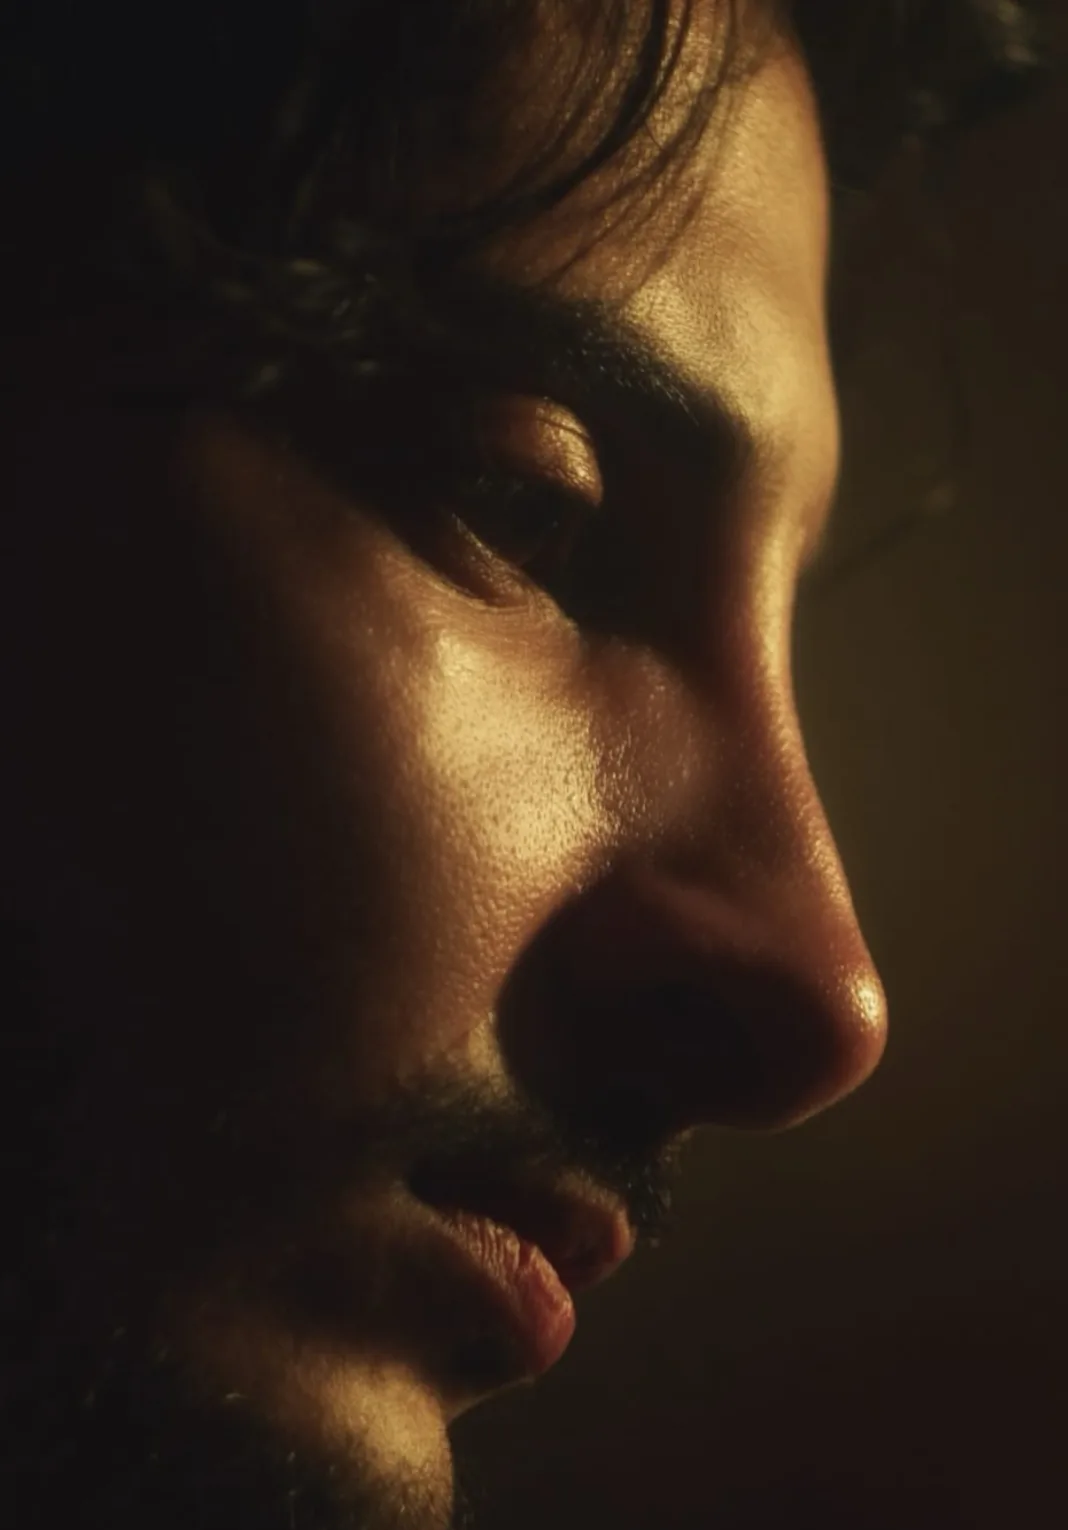
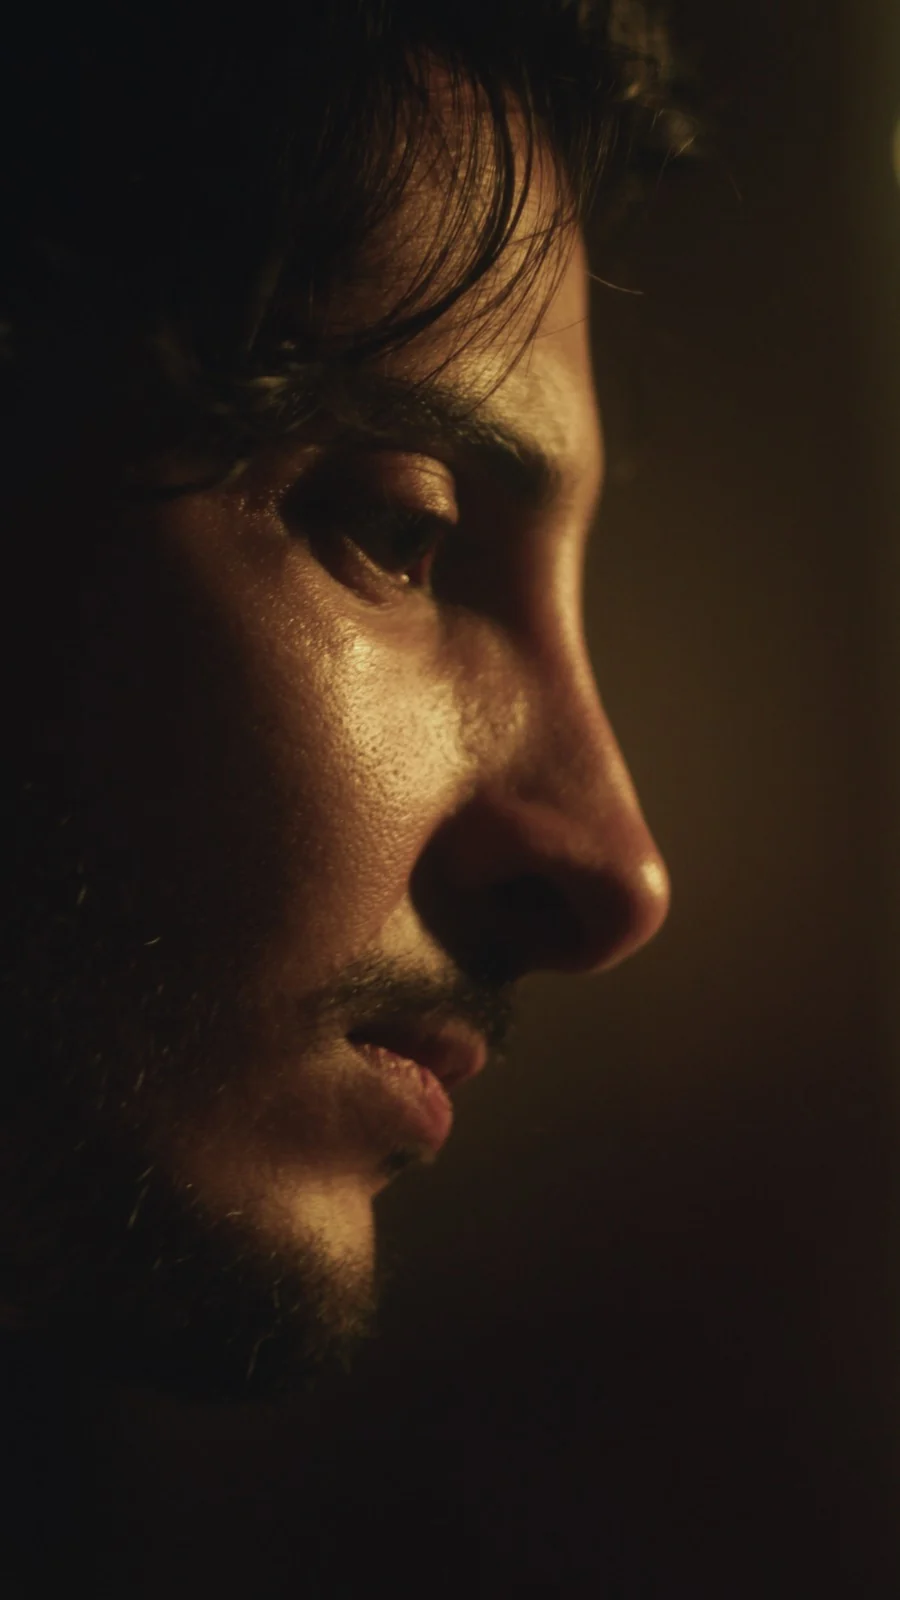
Portfolio : photos ADAM, court-métrage Matriochka, menu, Dynamite Agency

diff --git a/leonore_vanier/assets/js/data.js b/leonore_vanier/assets/js/data.js
@@ -52,8 +52,8 @@ window.SITE = {
     { id: "a-propos", label: "À propos", path: "a-propos/" },
     { id: "fiction", label: "Fiction", path: "fiction/" },
     { id: "audio", label: "Audio", path: "audio/" },
-    { id: "ia", label: "IA", path: "ia/" },
     { id: "spectacles-vivants", label: "Spectacles vivants", path: "spectacles-vivants/" },
+    { id: "ia", label: "IA", path: "ia/" },
     { id: "acting", label: "Acting", path: "acting/" },
     { id: "contacts", label: "Contacts", path: "contacts/" }
   ],
@@ -298,10 +298,10 @@ window.SITE = {
       gallery: [
         {
           src: "assets/img/adam/adam-2.webp",
-          w: 1011,
-          h: 1485,
-          alt: "Image d’ADAM : un homme en long manteau vert se tient dans une rue la nuit, image floue en mouvement.",
-          caption: "Photo : @bidounini"
+          w: 900,
+          h: 1600,
+          alt: "Image d’ADAM : visage de profil presque entièrement dans l’ombre, lumière rasante sur le nez et les lèvres.",
+          caption: "Photo : FeatureProd"
         },
         {
           src: "assets/img/adam/adam-3.webp",
@@ -312,18 +312,18 @@ window.SITE = {
         },
         {
           src: "assets/img/adam/adam-4.webp",
-          w: 972,
-          h: 1491,
-          alt: "Image d’ADAM : un homme et une femme de profil, côte à côte dans la pénombre.",
-          caption: "Photo : @bidounini"
+          w: 900,
+          h: 1600,
+          alt: "Image d’ADAM : un jeune homme en chemise grise, de profil au premier plan ; une femme floue se tient dans l’embrasure d’une porte.",
+          caption: "Photo : FeatureProd"
         }
       ],
       galleryFirst: {
         src: "assets/img/adam/adam-1.webp",
-        w: 1068,
-        h: 1530,
-        alt: "Image d’ADAM : gros plan sur le profil d’un jeune homme, visage éclairé par une lumière chaude.",
-        caption: "Photo : @bidounini"
+        w: 900,
+        h: 1600,
+        alt: "Image d’ADAM : gros plan sur le profil d’un jeune homme barbu, visage éclairé par une lumière chaude.",
+        caption: "Photo : FeatureProd"
       },
       credits: [
         { label: "Format", value: "Mini-série" },
@@ -331,8 +331,76 @@ window.SITE = {
         { label: "Production", value: "FeatureProd" },
         { label: "Statut", value: "En cours · sortie prévue fin 2026" },
         { label: "Mon rôle", value: "Chargée de production · Assistante réalisatrice" },
-        { label: "Photos", value: "@bidounini" },
+        { label: "Photos", value: "@bidounini · FeatureProd" },
         { label: "Distribution et équipe", value: null, todo: "crédits d’équipe autorisés à la publication" }
+      ],
+      links: []
+    },
+
+    /* ---- Matriochka (hors mosaïque : visible dans la rubrique Fiction ; retirer mosaic: false pour l’afficher partout) ---- */
+    {
+      id: "matriochka",
+      category: "fiction",
+      slug: "matriochka",
+      mosaic: false,
+      title: "Matriochka",
+      format: "Court-métrage · 2026 · 7 min",
+      role: "Directrice de production",
+      description:
+        "Matriochka, court-métrage de fiction (2026, 7 min) réalisé par Marianne Font dans le cadre du concours Klach ! du Festival Paris Court Devant. Léonore Vanier en est la directrice de production.",
+      synopsis: "Le film explore les liens entre transmission, mémoire et héritage féminin à travers une atmosphère intime et mystérieuse, où les espaces naturels (parcs, forêts, bois, etc.) occupent une place centrale. Ils deviennent un espace de passage, de mémoire et de transformation.",
+      method: "Direction de production : budget de production, lien avec les équipes réalisation, image et régie · Autorisations : tournage en forêts et espaces naturels, droit à l’image.",
+      methodNote: "Concours Klach !, qui promeut la visibilité des personnes en situation de handicap : le premier rôle est confié à une personne en situation de handicap. Chaque film est conçu, tourné et monté en un mois.",
+      status: "Production : novembre 2026",
+      tile: {
+        ratio: "16 / 9",
+        focus: "50% 50%",
+        images: [
+          {
+            src: "assets/img/matriochka/moodboard.webp",
+            w: 682,
+            h: 1024,
+            alt: "Planche d’inspiration de Matriochka : collage d’images de films et de portraits de femmes, de parcs et de forêts, avec au centre le titre « Matriocka Mood Board »."
+          }
+        ]
+      },
+      hero: {
+        type: "image",
+        image: {
+          src: "assets/img/matriochka/moodboard.webp",
+          w: 682,
+          h: 1024,
+          alt: "Planche d’inspiration de Matriochka : collage d’images de films et de portraits de femmes, de parcs et de forêts, avec au centre le titre « Matriocka Mood Board »."
+        }
+      },
+      stats: [
+        { value: "3 k€", label: "de budget de production" },
+        { value: "14 personnes", label: "dans l’équipe" },
+        { value: "2 jours", label: "de tournage en milieu naturel" },
+        { value: "1 mois", label: "de l’écriture au montage final" }
+      ],
+      awards: [],
+      gallery: [],
+      credits: [
+        { label: "Format", value: "Court-métrage de fiction, 2026" },
+        { label: "Durée", value: "7 minutes" },
+        { label: "Concours", value: "Klach ! · Festival Paris Court Devant" },
+        { label: "Réalisation · Scénario", value: "Marianne Font" },
+        { label: "Collaboration au scénario", value: "Jonathan Israël" },
+        { label: "Script doctoring", value: "Luca Minardi" },
+        { label: "Direction de production", value: "Léonore Vanier" },
+        { label: "Assistanat à la réalisation", value: "Marie Lager" },
+        { label: "Scripte", value: "Ettie Lechopier" },
+        { label: "Direction de la photographie", value: "Denez Pithois" },
+        { label: "Interprétation", value: "Claire Pitot, Anthony Rhino, Carole André" },
+        { label: "Son", value: "Margaux Roux" },
+        { label: "Costumes", value: "Solenne Azam" },
+        { label: "Maquillage", value: "Lucie Chiron" },
+        { label: "Régie générale", value: "Rebecca Gournay" },
+        { label: "Montage", value: "Julia Camps" },
+        { label: "Musique", value: "Antoine Martre" },
+        { label: "Étalonnage", value: "Aladin" },
+        { label: "Mixage", value: "Anthony Ferrero" }
       ],
       links: []
     },
@@ -1108,6 +1176,11 @@ window.SITE = {
       label: "Agent publicité",
       name: "Rebecca Artists",
       url: "https://www.rebecca-artists.fr/index.htm"
+    },
+    adAgent2: {
+      label: "Agent publicité",
+      name: "Dynamite Agency",
+      url: "https://www.agency-dynamite.fr/"
     },
     cvNote: "Mon profil artistique est disponible sur la page de mon agent."
   },

diff --git a/leonore_vanier/assets/js/data.en.js b/leonore_vanier/assets/js/data.en.js
@@ -16,8 +16,8 @@ window.SITE_EN = {
     { label: "About" },
     { label: "Fiction" },
     { label: "Audio" },
-    { label: "AI" },
     { label: "Live performance" },
+    { label: "AI" },
     { label: "Acting" },
     { label: "Contact" }
   ],
@@ -154,11 +154,11 @@ window.SITE_EN = {
       status: "Project in progress",
       tile: { images: [{ alt: "Still from ADAM: a man in a long green coat standing in a street at night, blurred in motion." }] },
       hero: { image: { alt: "Still from ADAM: a man in a long green coat standing in a street at night, blurred in motion." } },
-      galleryFirst: { alt: "Still from ADAM: close-up on a young man’s profile, his face lit by a warm light.", caption: "Photo: @bidounini" },
+      galleryFirst: { alt: "Still from ADAM: close-up on the profile of a bearded young man, his face lit by a warm light.", caption: "Photo: FeatureProd" },
       gallery: [
-        { alt: "Still from ADAM: a man in a long green coat standing in a street at night, blurred in motion.", caption: "Photo: @bidounini" },
+        { alt: "Still from ADAM: a face in profile, almost entirely in shadow, light grazing the nose and lips.", caption: "Photo: FeatureProd" },
         { alt: "Still from ADAM: a hand holding a pincushion with colourful pin heads.", caption: "Photo: @bidounini" },
-        { alt: "Still from ADAM: a man and a woman in profile, side by side in the dark.", caption: "Photo: @bidounini" }
+        { alt: "Still from ADAM: a young man in a grey shirt in profile in the foreground; a blurred woman stands in a doorway.", caption: "Photo: FeatureProd" }
       ],
       credits: [
         { label: "Format", value: "Mini-series" },
@@ -168,6 +168,48 @@ window.SITE_EN = {
         { label: "My role", value: "Production coordinator · Assistant director" },
         { label: "Photos" },
         { label: "Cast and crew" }
+      ]
+    },
+
+    /* ---- Matriochka ---- */
+    {
+      id: "matriochka",
+      format: "Short film · 2026 · 7 min",
+      role: "Production manager",
+      description:
+        "Matriochka, a short fiction film (2026, 7 min) directed by Marianne Font as part of the Klach! competition of the Paris Court Devant Festival. Léonore Vanier is its production manager.",
+      synopsis: "The film explores the links between transmission, memory and female heritage through an intimate, mysterious atmosphere in which natural spaces (parks, forests, woods, etc.) play a central part. They become a space of passage, memory and transformation.",
+      method: "Production management: production budget, liaison with the directing, camera and logistics teams · Permits: shooting in forests and natural spaces, image rights.",
+      methodNote: "Klach! competition, which promotes the visibility of people with disabilities: the lead role is given to a person with a disability. Each film is conceived, shot and edited within one month.",
+      status: "Production: November 2026",
+      tile: { images: [{ alt: "Matriochka mood board: a collage of film stills and portraits of women, parks and forests, with the title “Matriocka Mood Board” in the centre." }] },
+      hero: { image: { alt: "Matriochka mood board: a collage of film stills and portraits of women, parks and forests, with the title “Matriocka Mood Board” in the centre." } },
+      stats: [
+        { value: "€3k", label: "production budget" },
+        { value: "14 people", label: "in the team" },
+        { value: "2 days", label: "of shooting in natural settings" },
+        { value: "1 month", label: "from writing to final cut" }
+      ],
+      credits: [
+        { label: "Format", value: "Short fiction film, 2026" },
+        { label: "Running time", value: "7 minutes" },
+        { label: "Competition", value: "Klach! · Paris Court Devant Festival" },
+        { label: "Direction · Screenplay" },
+        { label: "Screenplay collaboration" },
+        { label: "Script doctoring" },
+        { label: "Production management" },
+        { label: "Assistant direction" },
+        { label: "Script supervisor" },
+        { label: "Cinematography" },
+        { label: "Cast" },
+        { label: "Sound" },
+        { label: "Costumes" },
+        { label: "Make-up" },
+        { label: "Unit management" },
+        { label: "Editing" },
+        { label: "Music" },
+        { label: "Colour grading" },
+        { label: "Mixing" }
       ]
     },
 
@@ -508,6 +550,7 @@ window.SITE_EN = {
     },
     agent: { label: "My agent" },
     adAgent: { label: "Commercials agent" },
+    adAgent2: { label: "Commercials agent" },
     cvNote: "My artistic profile is available on my agent’s page."
   },
 

diff --git a/leonore_vanier/assets/js/main.js b/leonore_vanier/assets/js/main.js
@@ -76,6 +76,12 @@
       return p.id === id;
     })[0];
   }
+  // Projets affichés dans la mosaïque générale (mosaic: false : visible seulement dans sa rubrique).
+  function listed() {
+    return S.projects.filter(function (p) {
+      return p.mosaic !== false;
+    });
+  }
   function inCategory(cat) {
     return S.projects.filter(function (p) {
       return p.category === cat;
@@ -300,7 +306,7 @@
   }
 
   function mosaic(extraClass) {
-    return '<ul class="mosaic' + (extraClass ? " " + extraClass : "") + '">' + S.projects.map(tile).join("") + "</ul>";
+    return '<ul class="mosaic' + (extraClass ? " " + extraClass : "") + '">' + listed().map(tile).join("") + "</ul>";
   }
 
   // Adresse de la vidéo : champ `url`, sinon déduite du type et de l’identifiant.
@@ -421,9 +427,10 @@
   }
 
   function projectNav(p) {
-    var i = S.projects.indexOf(p);
-    var prev = S.projects[(i + S.projects.length - 1) % S.projects.length];
-    var next = S.projects[(i + 1) % S.projects.length];
+    var list = p.mosaic === false ? S.projects : listed();
+    var i = list.indexOf(p);
+    var prev = list[(i + list.length - 1) % list.length];
+    var next = list[(i + 1) % list.length];
     function item(q, dir, label) {
       return (
         '<li class="pnav__' + dir + '"><a href="' + projectUrl(q) + '"><span class="pnav__dir">' + esc(label) +
@@ -769,7 +776,7 @@
       '<div class="page-head__main"><p class="eyebrow">' + esc(UI.section) + "</p><h1>" + esc(S.nav[5].label) + "</h1>" +
       '<p class="page-head__format">' + esc(a.intro) + "</p>" +
       '<p class="page-head__link"><a class="link-arrow" href="#demo">' + esc(UI.demoLink) + "</a></p></div>" +
-      '<div class="page-head__side"><ul class="rep-inline" aria-label="' + esc(UI.representation) + '">' + rep(a.agent) + rep(a.adAgent) + "</ul>" +
+      '<div class="page-head__side"><ul class="rep-inline" aria-label="' + esc(UI.representation) + '">' + rep(a.agent) + rep(a.adAgent) + (a.adAgent2 ? rep(a.adAgent2) : "") + "</ul>" +
       '<p class="muted">' + esc(a.cvNote) + "</p></div></header>" +
       '<section aria-labelledby="por"><h2 id="por" class="sr-only">' + esc(UI.portraits) + "</h2>" +
       '<ul class="portraits portraits--large">' + large.map(function (x, i) { return portrait(x, i === 0); }).join("") + "</ul>" +

diff --git a/leonore_vanier/fiction/index.html b/leonore_vanier/fiction/index.html
@@ -4,9 +4,9 @@
 <meta charset="utf-8">
 <meta name="viewport" content="width=device-width, initial-scale=1">
 <title>Fiction — Léonore Vanier</title>
-<meta name="description" content="Fiction : Le Contrôle sanitaire, ADAM (mini-série de FeatureProd) et Sous ta peau brûlante.">
+<meta name="description" content="Fiction : Le Contrôle sanitaire, ADAM (mini-série de FeatureProd), Sous ta peau brûlante et Matriochka.">
 <meta property="og:title" content="Fiction — Léonore Vanier">
-<meta property="og:description" content="Fiction : Le Contrôle sanitaire, ADAM (mini-série de FeatureProd) et Sous ta peau brûlante.">
+<meta property="og:description" content="Fiction : Le Contrôle sanitaire, ADAM (mini-série de FeatureProd), Sous ta peau brûlante et Matriochka.">
 <meta property="og:type" content="website">
 <meta property="og:site_name" content="Léonore Vanier">
 <meta property="og:locale" content="fr_FR">

diff --git a/leonore_vanier/en/fiction/index.html b/leonore_vanier/en/fiction/index.html
@@ -4,9 +4,9 @@
 <meta charset="utf-8">
 <meta name="viewport" content="width=device-width, initial-scale=1">
 <title>Fiction — Léonore Vanier</title>
-<meta name="description" content="Fiction: Le Contrôle sanitaire, ADAM (a FeatureProd mini-series) and Sous ta peau brûlante.">
+<meta name="description" content="Fiction: Le Contrôle sanitaire, ADAM (a FeatureProd mini-series), Sous ta peau brûlante and Matriochka.">
 <meta property="og:title" content="Fiction — Léonore Vanier">
-<meta property="og:description" content="Fiction: Le Contrôle sanitaire, ADAM (a FeatureProd mini-series) and Sous ta peau brûlante.">
+<meta property="og:description" content="Fiction: Le Contrôle sanitaire, ADAM (a FeatureProd mini-series), Sous ta peau brûlante and Matriochka.">
 <meta property="og:type" content="website">
 <meta property="og:site_name" content="Léonore Vanier">
 <meta property="og:locale" content="en_GB">
